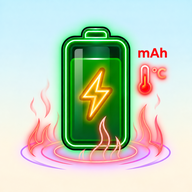
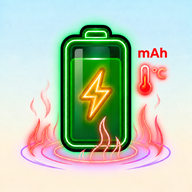
Double battery silhouette outline thickness

diff --git a/sw.js b/sw.js
@@ -1,5 +1,5 @@
-const CACHE = 'battery-lab-github-v6';
-const ASSETS = ['./', './index.html', './styles.css', './app.js', './manifest.webmanifest', './icons/icon-192.png?v=6', './icons/icon-512.png?v=6', './apple-touch-icon.png?v=6'];
+const CACHE = 'battery-lab-github-v7';
+const ASSETS = ['./', './index.html', './styles.css', './app.js', './manifest.webmanifest', './icons/icon-192.png?v=7', './icons/icon-512.png?v=7', './apple-touch-icon.png?v=7'];
 self.addEventListener('install', event => { event.waitUntil(caches.open(CACHE).then(cache => cache.addAll(ASSETS)).then(() => self.skipWaiting())); });
 self.addEventListener('activate', event => { event.waitUntil(caches.keys().then(keys => Promise.all(keys.filter(key => key !== CACHE).map(key => caches.delete(key)))).then(() => self.clients.claim())); });
 self.addEventListener('fetch', event => { if (event.request.method !== 'GET' || new URL(event.request.url).origin !== self.location.origin) return; event.respondWith(caches.match(event.request).then(hit => hit || fetch(event.request))); });

diff --git a/index.html b/index.html
@@ -8,8 +8,8 @@
   <meta name="apple-mobile-web-app-title" content="電池計算">
   <meta name="description" content="電池工程常用的電芯、電池包與熱管理初估工具。">
   <link rel="manifest" href="./manifest.webmanifest">
-  <link rel="icon" href="./icons/icon-192.png?v=6" type="image/png">
-  <link rel="apple-touch-icon" sizes="180x180" href="./apple-touch-icon.png?v=6">
+  <link rel="icon" href="./icons/icon-192.png?v=7" type="image/png">
+  <link rel="apple-touch-icon" sizes="180x180" href="./apple-touch-icon.png?v=7">
   <link rel="stylesheet" href="./styles.css">
   <title>電池工程計算室</title>
 </head>
